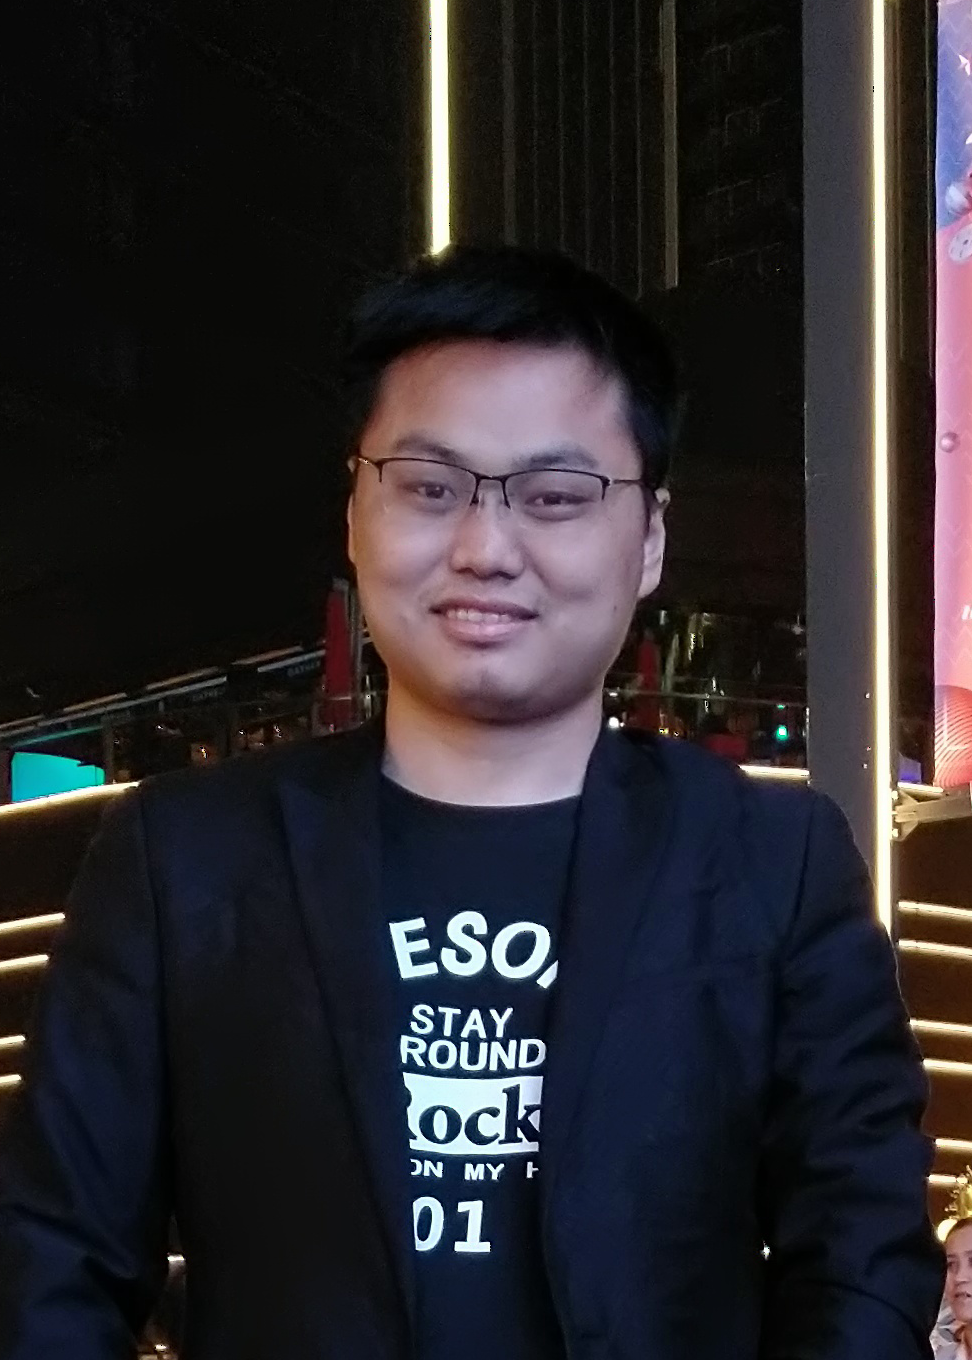
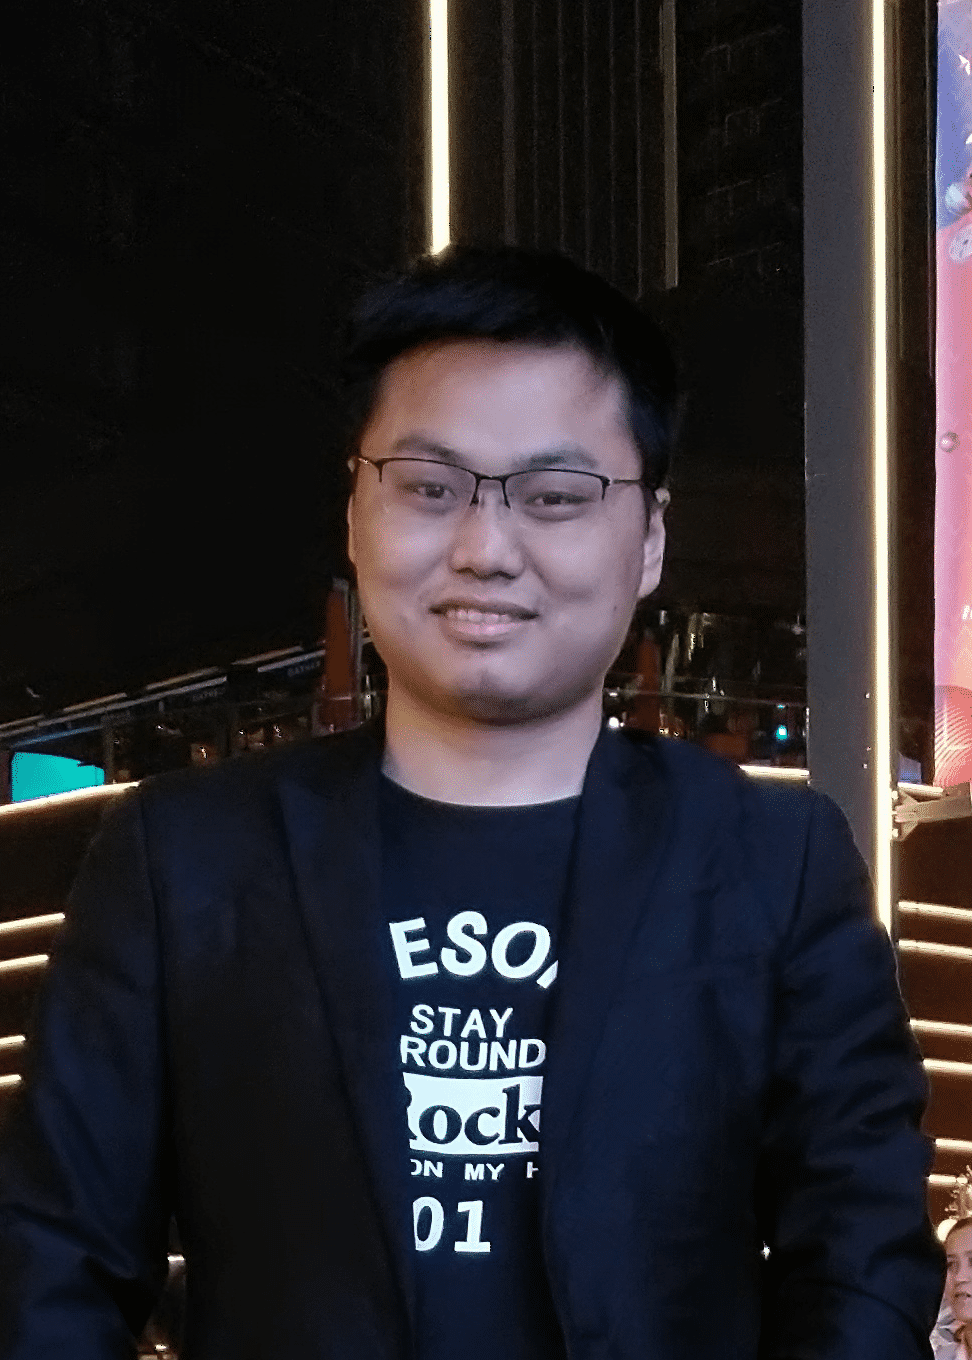
优化图片大小

diff --git a/build/css/widget.css b/build/css/widget.css
@@ -1,1 +1,1 @@
-.widget{color:#bfbfbf;background:0 0}.widget a{color:#bfbfbf;text-decoration:none}.widget a:hover{color:#0085a1;text-decoration:none}.widget ol ol,.widget ol ul,.widget ul ol,.widget ul ul{margin-left:0 10px}.widget ol ol ol,.widget ol ul ol,.widget ul ol ol,.widget ul ul ol{list-style:decimal}.archive-list-count,.category-list-count,.tag-list-count{padding-left:5px;color:color-grey;font-size:.85em}.archive-list-count:before,.category-list-count:before,.tag-list-count:before{content:"("}.archive-list-count:after,.category-list-count:after,.tag-list-count:after{content:")"}#avatar_pic{max-height:280px;max-width:250px}
+.widget{color:#bfbfbf;background:0 0}.widget a{color:#bfbfbf;text-decoration:none}.widget a:hover{color:#0085a1;text-decoration:none}.widget ol ol,.widget ol ul,.widget ul ol,.widget ul ul{margin-left:0 10px;list-style:disc}.widget ol ol ol,.widget ol ul ol,.widget ul ol ol,.widget ul ul ol{list-style:decimal}.archive-list-count,.category-list-count,.tag-list-count{padding-left:5px;color:color-grey;font-size:.85em}.archive-list-count:before,.category-list-count:before,.tag-list-count:before{content:"("}.archive-list-count:after,.category-list-count:after,.tag-list-count:after{content:")"}#avatar_pic{max-height:280px;max-width:250px}

diff --git a/web/css/widget.css b/web/css/widget.css
@@ -15,7 +15,6 @@
 .widget ul ol,
 .widget ol ol {
   margin-left: 0 10px;
-ul
   list-style: disc;
 }
 .widget ul ul ol,
